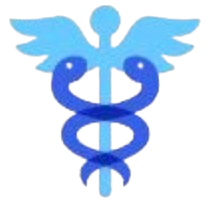
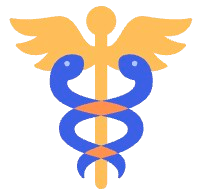
🌟 UI Update: Switched entire theme to orange styling

Changed region(s): [[0.0297, 0.0, 0.9505, 0.9897]]

diff --git a/admin/src/components/Sidebar.jsx b/admin/src/components/Sidebar.jsx
@@ -13,34 +13,40 @@ const Sidebar = () => {
     <div className='min-h-screen bg-white border-r'>
       {aToken && <ul className='text-[#515151] mt-5'>
 
-        <NavLink to={'/admin-dashboard'} className={({ isActive }) => `flex items-center gap-3 py-3.5 px-3 md:px-9 md:min-w-72 cursor-pointer ${isActive ? 'bg-[#F2F3FF] border-r-4 border-primary' : ''}`}>
+        <NavLink 
+  to={'/admin-dashboard'} 
+  className={({ isActive }) => `flex items-center gap-3 py-3.5 px-3 md:px-9 md:min-w-72 cursor-pointer ${
+    isActive ? 'bg-orange-50 border-r-4 border-orange-500' : ''
+  }`}
+>
+
           <img className='min-w-5' src={assets.home_icon} alt='' />
           <p className='hidden md:block'>Dashboard</p>
         </NavLink>
-        <NavLink to={'/all-appointments'} className={({ isActive }) => `flex items-center gap-3 py-3.5 px-3 md:px-9 md:min-w-72 cursor-pointer ${isActive ? 'bg-[#F2F3FF] border-r-4 border-primary' : ''}`}>
+        <NavLink to={'/all-appointments'} className={({ isActive }) => `flex items-center gap-3 py-3.5 px-3 md:px-9 md:min-w-72 cursor-pointer ${isActive ? 'bg-orange-50 border-r-4 border-orange-500' : ''}`}>
           <img className='min-w-5' src={assets.appointment_icon} alt='' />
           <p className='hidden md:block'>Appointments</p>
         </NavLink>
-        <NavLink to={'/add-doctor'} className={({ isActive }) => `flex items-center gap-3 py-3.5 px-3 md:px-9 md:min-w-72 cursor-pointer ${isActive ? 'bg-[#F2F3FF] border-r-4 border-primary' : ''}`}>
+        <NavLink to={'/add-doctor'} className={({ isActive }) => `flex items-center gap-3 py-3.5 px-3 md:px-9 md:min-w-72 cursor-pointer ${isActive ? 'bg-orange-50 border-r-4 border-orange-500' : ''}`}>
           <img className='min-w-5' src={assets.add_icon} alt='' />
           <p className='hidden md:block'>Add Doctor</p>
         </NavLink>
-        <NavLink to={'/doctor-list'} className={({ isActive }) => `flex items-center gap-3 py-3.5 px-3 md:px-9 md:min-w-72 cursor-pointer ${isActive ? 'bg-[#F2F3FF] border-r-4 border-primary' : ''}`}>
+        <NavLink to={'/doctor-list'} className={({ isActive }) => `flex items-center gap-3 py-3.5 px-3 md:px-9 md:min-w-72 cursor-pointer ${isActive ? 'bg-orange-50 border-r-4 border-orange-500' : ''}`}>
           <img className='min-w-5' src={assets.people_icon} alt='' />
           <p className='hidden md:block'>Doctors List</p>
         </NavLink>
       </ul>}
 
       {dToken && <ul className='text-[#515151] mt-5'>
-        <NavLink to={'/doctor-dashboard'} className={({ isActive }) => `flex items-center gap-3 py-3.5 px-3 md:px-9 md:min-w-72 cursor-pointer ${isActive ? 'bg-[#F2F3FF] border-r-4 border-primary' : ''}`}>
+        <NavLink to={'/doctor-dashboard'} className={({ isActive }) => `flex items-center gap-3 py-3.5 px-3 md:px-9 md:min-w-72 cursor-pointer ${isActive ? 'bg-orange-50 border-r-4 border-orange-500' : ''}`}>
           <img className='min-w-5' src={assets.home_icon} alt='' />
           <p className='hidden md:block'>Dashboard</p>
         </NavLink>
-        <NavLink to={'/doctor-appointments'} className={({ isActive }) => `flex items-center gap-3 py-3.5 px-3 md:px-9 md:min-w-72 cursor-pointer ${isActive ? 'bg-[#F2F3FF] border-r-4 border-primary' : ''}`}>
+        <NavLink to={'/doctor-appointments'} className={({ isActive }) => `flex items-center gap-3 py-3.5 px-3 md:px-9 md:min-w-72 cursor-pointer ${isActive ? 'bg-orange-50 border-r-4 border-orange-500' : ''}`}>
           <img className='min-w-5' src={assets.appointment_icon} alt='' />
           <p className='hidden md:block'>Appointments</p>
         </NavLink>
-        <NavLink to={'/doctor-profile'} className={({ isActive }) => `flex items-center gap-3 py-3.5 px-3 md:px-9 md:min-w-72 cursor-pointer ${isActive ? 'bg-[#F2F3FF] border-r-4 border-primary' : ''}`}>
+        <NavLink to={'/doctor-profile'} className={({ isActive }) => `flex items-center gap-3 py-3.5 px-3 md:px-9 md:min-w-72 cursor-pointer ${isActive ? 'bg-orange-50 border-r-4 border-orange-500' : ''}`}>
           <img className='min-w-5' src={assets.people_icon} alt='' />
           <p className='hidden md:block'>Profile</p>
         </NavLink>

diff --git a/frontend/src/pages/About.jsx b/frontend/src/pages/About.jsx
@@ -12,10 +12,11 @@ const About = () => {
       <div className='my-10 flex flex-col md:flex-row gap-12'>
         <img className='w-full md:max-w-[360px]' src={assets.about_image} alt="" />
         <div className='flex flex-col justify-center gap-6 md:w-2/4 text-sm text-gray-600'>
-          <p>Welcome to Prescripto, your trusted partner in managing your healthcare needs conveniently and efficiently. At Prescripto, we understand the challenges individuals face when it comes to scheduling doctor appointments and managing their health records.</p>
-          <p>Prescripto is committed to excellence in healthcare technology. We continuously strive to enhance our platform, integrating the latest advancements to improve user experience and deliver superior service. Whether you're booking your first appointment or managing ongoing care, Prescripto is here to support you every step of the way.</p>
-          <b className='text-gray-800'>Our Vision</b>
-          <p>Our vision at Prescripto is to create a seamless healthcare experience for every user. We aim to bridge the gap between patients and healthcare providers, making it easier for you to access the care you need, when you need it.</p>
+        <p>Welcome to Docease, your trusted partner in managing your healthcare needs conveniently and efficiently. At Docease, we understand the challenges individuals face when it comes to scheduling doctor appointments and managing their health records.</p>
+<p>Docease is committed to excellence in healthcare technology. We continuously strive to enhance our platform, integrating the latest advancements to improve user experience and deliver superior service. Whether you're booking your first appointment or managing ongoing care, Docease is here to support you every step of the way.</p>
+<b className='text-gray-800'>Our Vision</b>
+<p>Our vision at Docease is to create a seamless healthcare experience for every user. We aim to bridge the gap between patients and healthcare providers, making it easier for you to access the care you need, when you need it.</p>
+
         </div>
       </div>
 
@@ -24,15 +25,18 @@ const About = () => {
       </div>
 
       <div className='flex flex-col md:flex-row mb-20'>
-        <div className='border px-10 md:px-16 py-8 sm:py-16 flex flex-col gap-5 text-[15px] hover:bg-primary hover:text-white transition-all duration-300 text-gray-600 cursor-pointer'>
+        <div className='border px-10 md:px-16 py-8 sm:py-16 flex flex-col gap-5 text-[15px] hover:bg-orange-500 hover:text-white transition-all duration-300 text-gray-600 cursor-pointer
+'>
           <b>EFFICIENCY:</b>
           <p>Streamlined appointment scheduling that fits into your busy lifestyle.</p>
         </div>
-        <div className='border px-10 md:px-16 py-8 sm:py-16 flex flex-col gap-5 text-[15px] hover:bg-primary hover:text-white transition-all duration-300 text-gray-600 cursor-pointer'>
+        <div className='border px-10 md:px-16 py-8 sm:py-16 flex flex-col gap-5 text-[15px] hover:bg-orange-500 hover:text-white transition-all duration-300 text-gray-600 cursor-pointer
+'>
           <b>CONVENIENCE: </b>
           <p>Access to a network of trusted healthcare professionals in your area.</p>
         </div>
-        <div className='border px-10 md:px-16 py-8 sm:py-16 flex flex-col gap-5 text-[15px] hover:bg-primary hover:text-white transition-all duration-300 text-gray-600 cursor-pointer'>
+        <div className='border px-10 md:px-16 py-8 sm:py-16 flex flex-col gap-5 text-[15px] hover:bg-orange-500 hover:text-white transition-all duration-300 text-gray-600 cursor-pointer
+'>
           <b>PERSONALIZATION:</b>
           <p >Tailored recommendations and reminders to help you stay on top of your health.</p>
         </div>

diff --git a/frontend/src/pages/Appointment.jsx b/frontend/src/pages/Appointment.jsx
@@ -164,7 +164,16 @@ const Appointment = () => {
                 <p >Booking slots</p>
                 <div className='flex gap-3 items-center w-full overflow-x-scroll mt-4'>
                     {docSlots.length && docSlots.map((item, index) => (
-                        <div onClick={() => setSlotIndex(index)} key={index} className={`text-center py-6 min-w-16 rounded-full cursor-pointer ${slotIndex === index ? 'bg-primary text-white' : 'border border-[#DDDDDD]'}`}>
+                        <div 
+                        onClick={() => setSlotIndex(index)} 
+                        key={index} 
+                        className={`text-center py-6 min-w-16 rounded-full cursor-pointer ${
+                          slotIndex === index 
+                            ? 'bg-orange-500 text-white' 
+                            : 'border border-[#DDDDDD]'
+                        }`}
+                      >
+                      
                             <p>{item[0] && daysOfWeek[item[0].datetime.getDay()]}</p>
                             <p>{item[0] && item[0].datetime.getDate()}</p>
                         </div>
@@ -173,11 +182,23 @@ const Appointment = () => {
 
                 <div className='flex items-center gap-3 w-full overflow-x-scroll mt-4'>
                     {docSlots.length && docSlots[slotIndex].map((item, index) => (
-                        <p onClick={() => setSlotTime(item.time)} key={index} className={`text-sm font-light  flex-shrink-0 px-5 py-2 rounded-full cursor-pointer ${item.time === slotTime ? 'bg-primary text-white' : 'text-[#949494] border border-[#B4B4B4]'}`}>{item.time.toLowerCase()}</p>
+                       <p 
+                       onClick={() => setSlotTime(item.time)} 
+                       key={index} 
+                       className={`text-sm font-light flex-shrink-0 px-5 py-2 rounded-full cursor-pointer ${
+                         item.time === slotTime 
+                           ? 'bg-orange-500 text-white' 
+                           : 'text-[#949494] border border-[#B4B4B4]'
+                       }`}
+                     >
+                       {item.time.toLowerCase()}
+                     </p>
+                     
                     ))}
                 </div>
 
-                <button onClick={bookAppointment} className='bg-primary text-white text-sm font-light px-20 py-3 rounded-full my-6'>Book an appointment</button>
+                <button onClick={bookAppointment} className='bg-orange-500 text-white text-sm font-light px-20 py-3 rounded-full my-6
+'>Book an appointment</button>
             </div>
 
             {/* Listing Releated Doctors */}

diff --git a/frontend/src/components/Navbar.jsx b/frontend/src/components/Navbar.jsx
@@ -21,20 +21,21 @@ const Navbar = () => {
       <img onClick={() => navigate('/')} className='w-44 cursor-pointer' src={assets.logo} alt="" />
       <ul className='md:flex items-start gap-5 font-medium hidden'>
         <NavLink to='/' >
-          <li className='py-1'>HOME</li>
-          <hr className='border-none outline-none h-0.5 bg-primary w-3/5 m-auto hidden' />
+        <li className='py-1'>HOME</li>
+<hr className='border-none outline-none h-0.5 bg-orange-500 w-3/5 m-auto hidden' />
+
         </NavLink>
         <NavLink to='/doctors' >
           <li className='py-1'>ALL DOCTORS</li>
-          <hr className='border-none outline-none h-0.5 bg-primary w-3/5 m-auto hidden' />
+          <hr className='border-none outline-none h-0.5 bg-orange-500 w-3/5 m-auto hidden' />
         </NavLink>
         <NavLink to='/about' >
           <li className='py-1'>ABOUT</li>
-          <hr className='border-none outline-none h-0.5 bg-primary w-3/5 m-auto hidden' />
+          <hr className='border-none outline-none h-0.5 bg-orange-500 w-3/5 m-auto hidden' />
         </NavLink>
         <NavLink to='/contact' >
           <li className='py-1'>CONTACT</li>
-          <hr className='border-none outline-none h-0.5 bg-primary w-3/5 m-auto hidden' />
+          <hr className='border-none outline-none h-0.5 bg-orange-500 w-3/5 m-auto hidden' />
         </NavLink>
       </ul>
 
@@ -52,7 +53,8 @@ const Navbar = () => {
                 </div>
               </div>
             </div>
-            : <button onClick={() => navigate('/login')} className='bg-primary text-white px-8 py-3 rounded-full font-light hidden md:block'>Create account</button>
+            : <button onClick={() => navigate('/login')} className='bg-orange-500 text-white px-8 py-3 rounded-full font-light hidden md:block
+'>Create account</button>
         }
         <img onClick={() => setShowMenu(true)} className='w-6 md:hidden' src={assets.menu_icon} alt="" />
 

diff --git a/frontend/src/pages/Contact.jsx b/frontend/src/pages/Contact.jsx
@@ -13,9 +13,9 @@ const Contact = () => {
         <img className='w-full md:max-w-[360px]' src={assets.contact_image} alt="" />
         <div className='flex flex-col justify-center items-start gap-6'>
           <p className=' font-semibold text-lg text-gray-600'>OUR OFFICE</p>
-          <p className=' text-gray-500'>54709 Willms Station <br /> Suite 350, Washington, USA</p>
-          <p className=' text-gray-500'>Tel: (415) 555-0132 <br /> Email: greatstackdev@gmail.com</p>
-          <p className=' font-semibold text-lg text-gray-600'>CAREERS AT PRESCRIPTO</p>
+          <p className=' text-gray-500'>NH-2 Bhauti, Kanpur <br /> India</p>
+          <p className=' text-gray-500'>Tel: 88877 56715 <br /> Email: yash@docease.com</p>
+          <p className=' font-semibold text-lg text-gray-600'>CAREERS AT DOCEASE</p>
           <p className=' text-gray-500'>Learn more about our teams and job openings.</p>
           <button className='border border-black px-8 py-4 text-sm hover:bg-black hover:text-white transition-all duration-500'>Explore Jobs</button>
         </div>

diff --git a/frontend/src/components/Header.jsx b/frontend/src/components/Header.jsx
@@ -3,10 +3,15 @@ import { assets } from '../assets/assets'
 
 const Header = () => {
     return (
-        <div className='flex flex-col md:flex-row flex-wrap bg-primary rounded-lg px-6 md:px-10 lg:px-20 '>
+        // <div className='flex flex-col md:flex-row flex-wrap bg-primary rounded-lg px-6 md:px-10 lg:px-20 '>
+
+        <div className='flex flex-col md:flex-row flex-wrap bg-orange-500 rounded-lg px-6 md:px-10 lg:px-20 '>
+
 
             {/* --------- Header Left --------- */}
             <div className='md:w-1/2 flex flex-col items-start justify-center gap-4 py-10 m-auto md:py-[10vw] md:mb-[-30px]'>
+            
+        
                 <p className='text-3xl md:text-4xl lg:text-5xl text-white font-semibold leading-tight md:leading-tight lg:leading-tight'>
                     Book Appointment <br />  With Trusted Doctors
                 </p>

diff --git a/admin/src/components/Navbar.jsx b/admin/src/components/Navbar.jsx
@@ -25,7 +25,7 @@ const Navbar = () => {
         <img onClick={() => navigate('/')} className='w-36 sm:w-40 cursor-pointer' src={assets.admin_logo} alt="" />
         <p className='border px-2.5 py-0.5 rounded-full border-gray-500 text-gray-600'>{aToken ? 'Admin' : 'Doctor'}</p>
       </div>
-      <button onClick={() => logout()} className='bg-primary text-white text-sm px-10 py-2 rounded-full'>Logout</button>
+      <button onClick={() => logout()} className='bg-orange-500 text-white text-sm px-10 py-2 rounded-full'>Logout</button>
     </div>
   )
 }

diff --git a/frontend/src/assets/assets.js b/frontend/src/assets/assets.js
@@ -1,10 +1,10 @@
 import appointment_img from './appointment_img.png'
-import header_img from './header_img.png'
+import header_img from './mainpage.png'
 import group_profiles from './group_profiles.png'
 import profile_pic from './profile_pic.png'
 import contact_image from './contact_image.png'
 import about_image from './about_image.png'
-import logo from './1.png'
+import logo from './logo1.png'
 import dropdown_icon from './dropdown_icon.svg'
 import menu_icon from './menu_icon.svg'
 import cross_icon from './cross_icon.png'

diff --git a/frontend/src/components/Banner.jsx b/frontend/src/components/Banner.jsx
@@ -7,7 +7,10 @@ const Banner = () => {
     const navigate = useNavigate()
 
     return (
-        <div className='flex bg-primary rounded-lg  px-6 sm:px-10 md:px-14 lg:px-12 my-20 md:mx-10'>
+        // <div className='flex bg-primary rounded-lg  px-6 sm:px-10 md:px-14 lg:px-12 my-20 md:mx-10'>
+
+        <div className='flex bg-orange-500 rounded-lg px-6 sm:px-10 md:px-14 lg:px-12 my-20 md:mx-10'>
+
 
             {/* ------- Left Side ------- */}
             <div className='flex-1 py-8 sm:py-10 md:py-16 lg:py-24 lg:pl-5'>

diff --git a/admin/src/assets/assets.js b/admin/src/assets/assets.js
@@ -1,5 +1,5 @@
 import add_icon from './add_icon.svg'
-import admin_logo from './1.png'
+import admin_logo from './logo1.png'
 import appointment_icon from './appointment_icon.svg'
 import cancel_icon from './cancel_icon.svg'
 import doctor_icon from './doctor_icon.svg'

diff --git a/README.md b/README.md
@@ -1,1 +1,66 @@
-# DocEase
+DocEase
+Setup & Run Instructions
+Prerequisites
+Install Node.js (Ignore if already installed)
+Install MongoDB
+Create an account on Cloudinary
+(Optional) Create an account on Stripe for payments
+(Optional) Create an account on Razorpay for payments
+Backend Setup
+Open the project folder in VS Code.
+
+Open the integrated terminal.
+
+Navigate to the backend folder:
+
+cd backend
+Install dependencies:
+
+npm install
+Setup Cloudinary:
+
+Create an account at Cloudinary
+Copy Cloud Name, API Key, and API Secret from the dashboard
+Add these values to the .env file in the backend folder
+Setup MongoDB:
+
+Create an account at MongoDB Atlas
+Create a new project and database
+Choose M0 free tier and select your region
+Set up a username and password (Avoid using @ in passwords)
+Whitelist IP 0.0.0.0/0
+Click on Connect > Select Compass > Copy the connection string
+Paste the connection string into the .env file and replace <password> with your actual password
+(Optional) Setup Stripe:
+
+Create an account at Stripe
+Get the Stripe Secret Key from the dashboard
+Add it to the .env file
+(Optional) Setup Razorpay:
+
+Create an account at Razorpay
+Get Razorpay Secret Key and Key ID from the dashboard
+Add them to the .env file
+Start the backend server:
+
+npm run server
+Frontend Setup
+Open the frontend folder in VS Code.
+Open the integrated terminal.
+Install dependencies:
+npm install
+Start the frontend:
+npm run dev
+Open http://localhost:5173 in your browser.
+Admin Panel Setup
+Open the admin folder in VS Code.
+Open the integrated terminal.
+Install dependencies:
+npm install
+Start the admin panel:
+npm run dev
+Open http://localhost:5174 in your browser.
+Troubleshooting
+If you face any issues, you can contact us on Instagram: @greatstackdev
+
+Find More Projects: GreatStack
